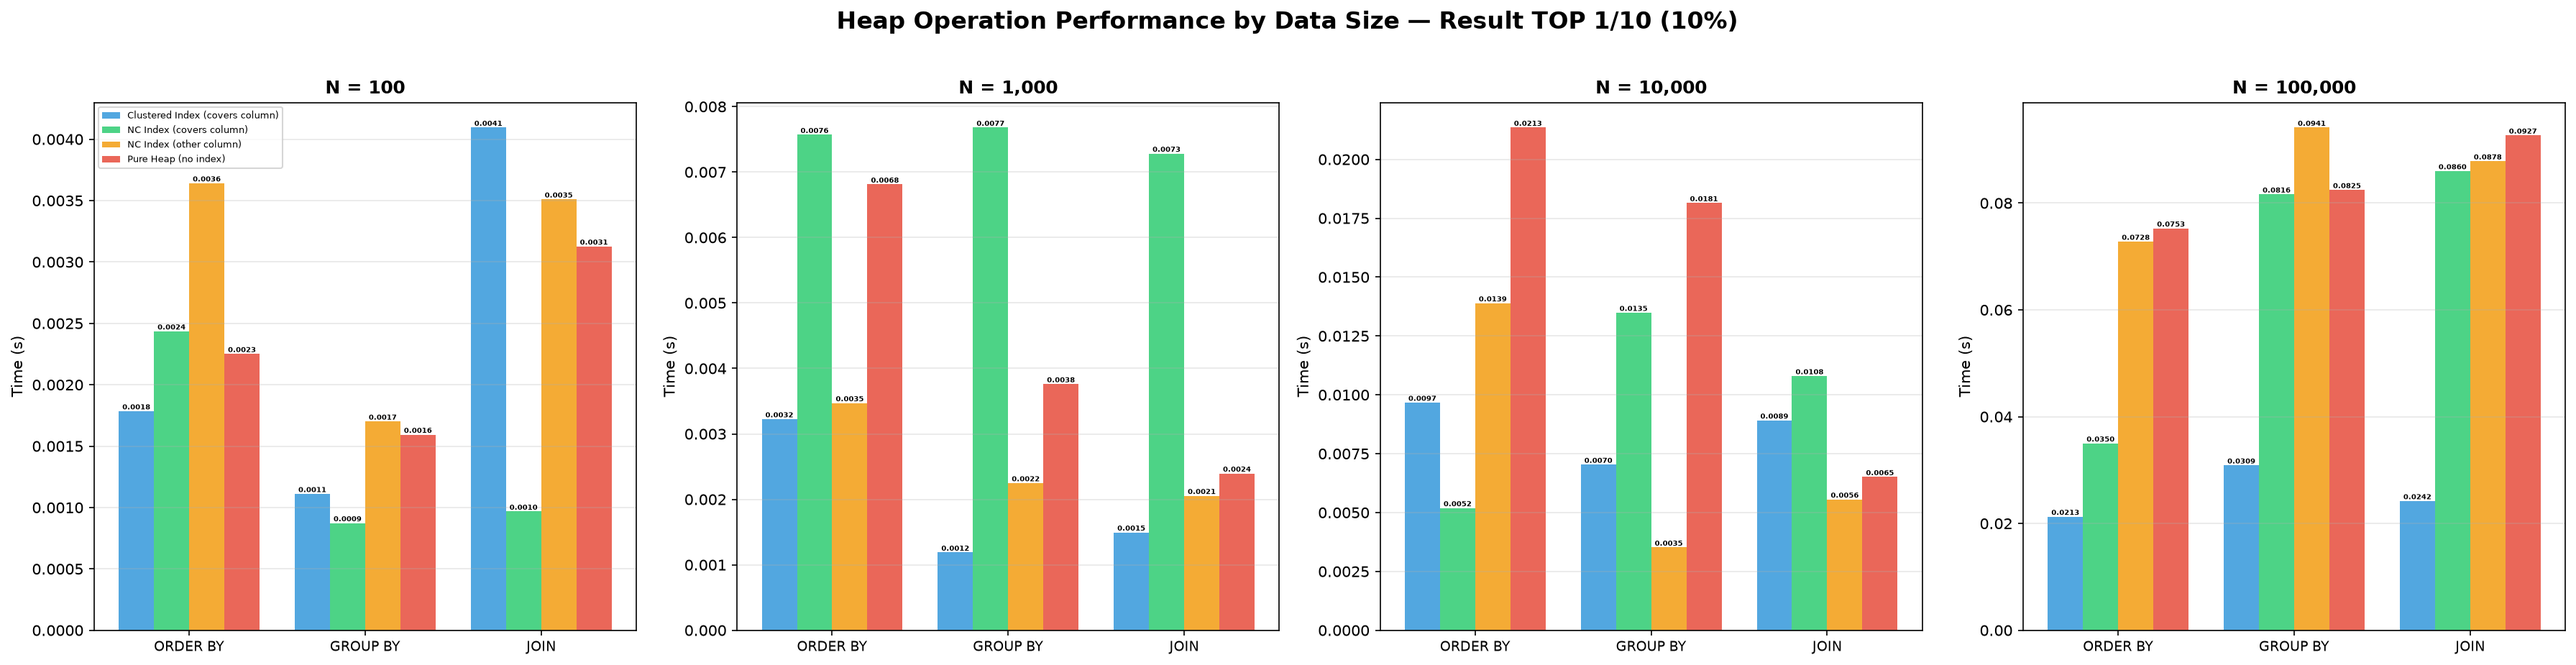
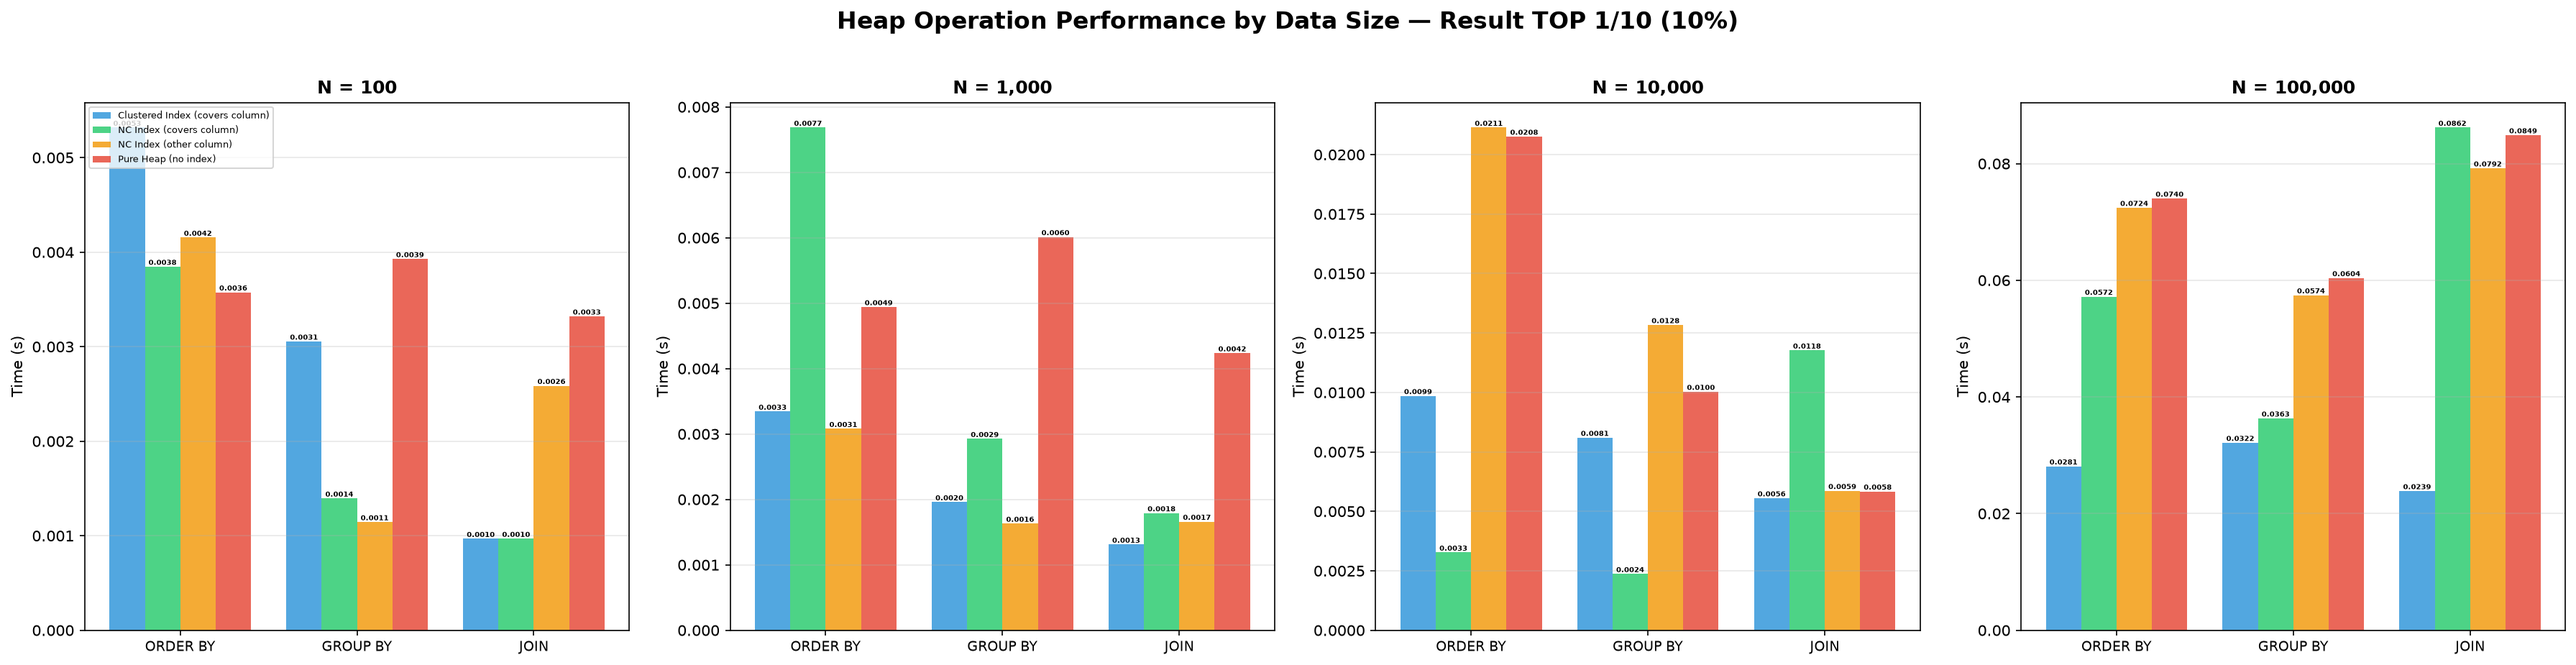
perf: update heap operations benchmark with revised GROUP BY logic and larger result divisor

diff --git a/src/benchmark_heap_ops.py b/src/benchmark_heap_ops.py
@@ -46,7 +46,7 @@ REPEAT_COUNT = 100
 
 
 # Result TOP divisor: outer SELECT returns N/RESULT_TOP_DIVISOR rows
-RESULT_TOP_DIVISOR = 1
+RESULT_TOP_DIVISOR = 10
 RESULT_TOP_PCT = 100 / RESULT_TOP_DIVISOR
 
 # ── Three scenarios ───────────────────────────────────────────────────
@@ -177,8 +177,12 @@ def bench_group_by(cursor, table, n):
     """GROUP BY on val2 — SELECT TOP 1/RESULT_TOP_DIVISOR."""
     result_top = max(1, n // RESULT_TOP_DIVISOR)
     sql = f"""
-        SELECT TOP ({result_top}) val2, COUNT(*) AS cnt, AVG(id) AS avg_id
-        FROM [{table}]
+        SELECT val2, COUNT(*) AS cnt, AVG(id) AS avg_id
+        FROM (
+            SELECT TOP ({result_top}) id, val1, val2, val3
+            FROM [{table}]
+            ORDER BY val2
+        ) AS iv
         GROUP BY val2
     """
 
